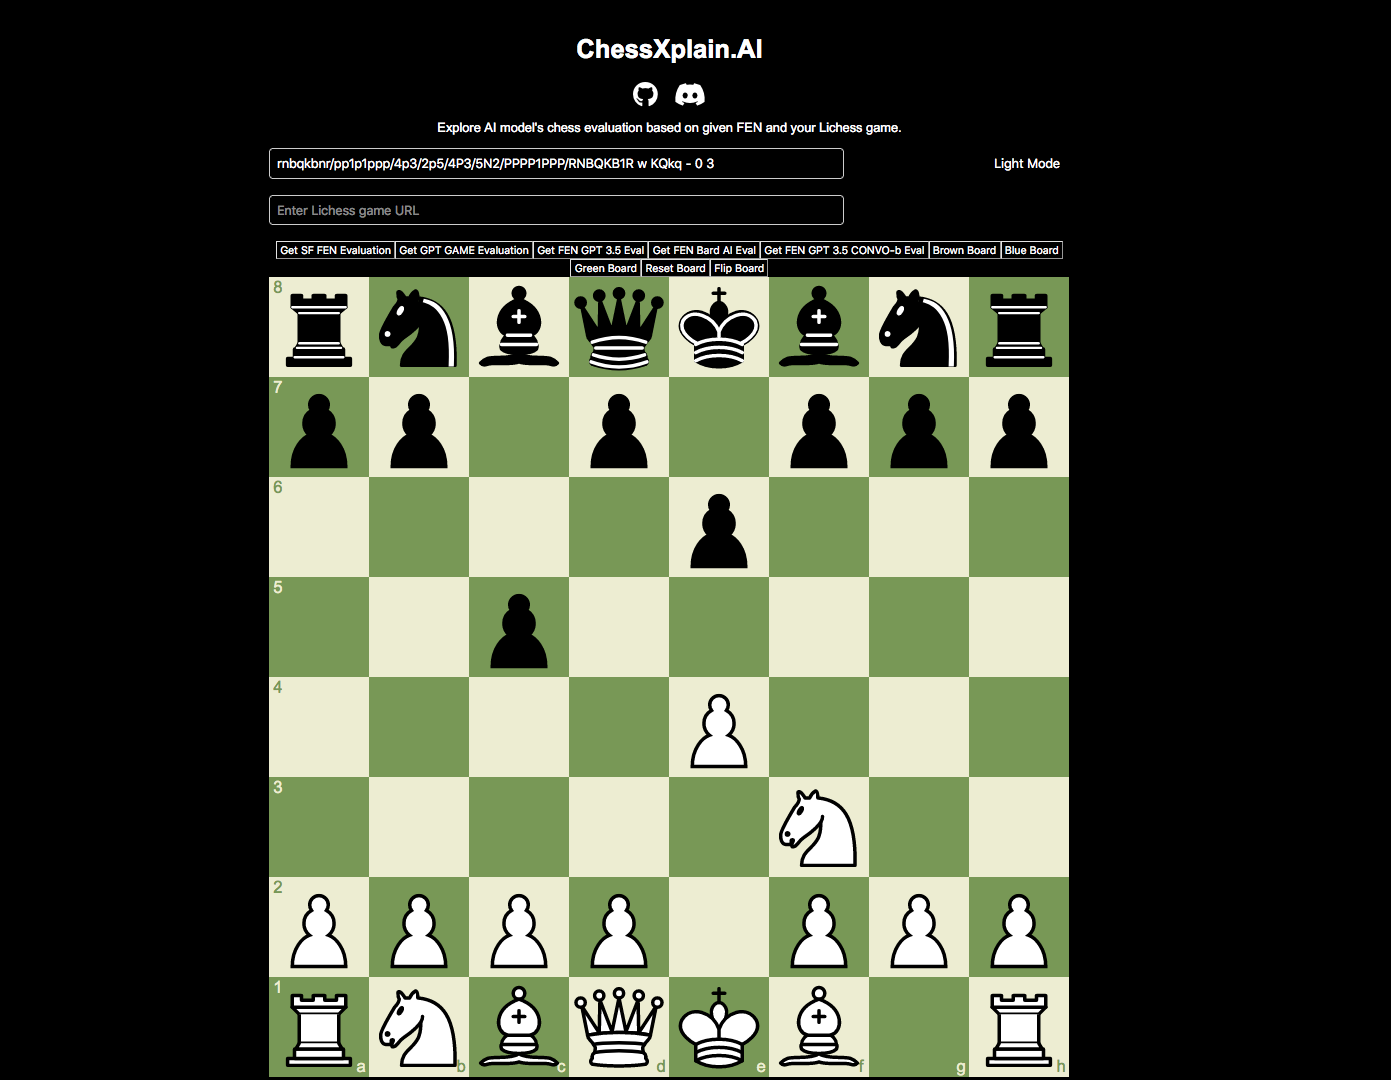
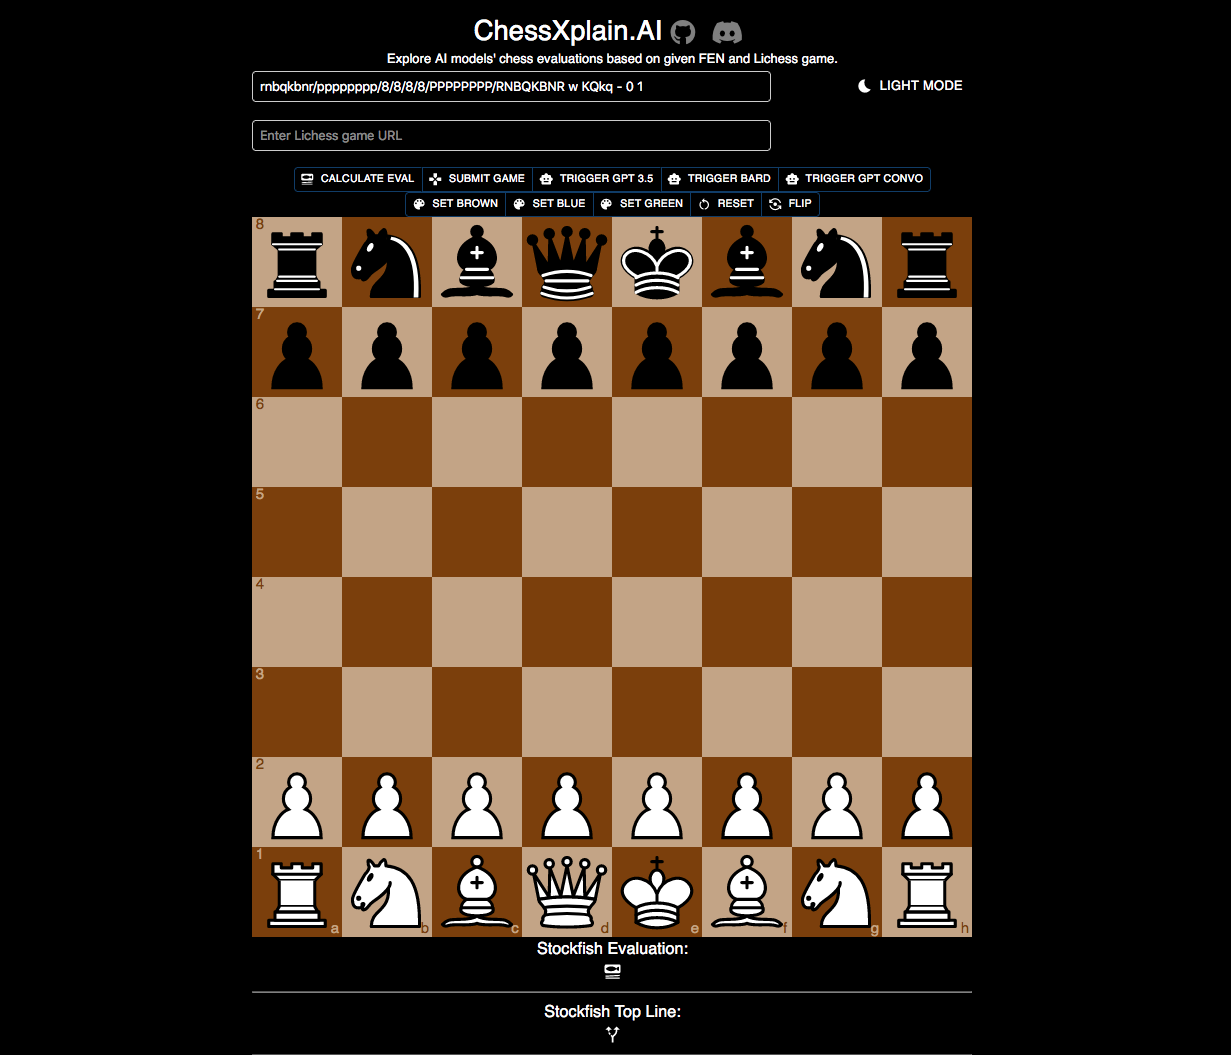
re-design to material UI

diff --git a/chessxplain/src/App.js b/chessxplain/src/App.js
@@ -8,7 +8,6 @@ import handleGPT from './Ai/GPTAi.js';
 import handleGPTGame from './Ai/GPTAiGame.js';
 import Chess from "chess.js";
 import Button from '@mui/material/Button';
-import RotateLeftIcon from '@mui/icons-material/RotateLeft';
 import SetMealIcon from '@mui/icons-material/SetMeal';
 import SmartToyIcon from '@mui/icons-material/SmartToy';
 import GamepadIcon from '@mui/icons-material/Gamepad';
@@ -17,6 +16,11 @@ import ColorLensIcon from '@mui/icons-material/ColorLens';
 import RestartAltIcon from '@mui/icons-material/RestartAlt';
 import FlipCameraAndroidIcon from '@mui/icons-material/FlipCameraAndroid';
 import Typography from '@mui/material/Typography';
+import AltRouteIcon from '@mui/icons-material/AltRoute';
+import { Container } from '@mui/material';
+import BedtimeIcon from '@mui/icons-material/Bedtime';
+
+import StarsIcon from '@mui/icons-material/Stars';
 
 //import CircularProgress from '@mui/material/CircularProgress';
 
@@ -180,16 +184,17 @@ function App() {
     <div className={`App ${darkMode ? 'dark' : ''}`}>
       <div className="container">
       
+      
+        <div className="icon-container">
         <Typography variant="h4" component="h2">
           ChessXplain.AI
         </Typography>
-
-        <p>Authors: @jalpp GPL-3.0 license </p>
-        <div className="icon-container">
           <a href="https://github.com/jalpp/chessxplain" rel="noreferrer"  target="_blank"><i className="fab fa-github fa-2x"></i></a>
           <a href="https://discord.gg/tpvgxn5eZC" rel="noreferrer"  target="_blank"><i className="fab fa-discord fa-2x"></i></a>
         </div>
-        <p> Explore AI model's chess evaluation based on given FEN and your Lichess game. </p>
+       <Typography variant='body1' component='body1'>
+        Explore AI models' chess evaluations based on given FEN and Lichess game.
+       </Typography>
         <div className="controls">
           <div className="search-container">
             <input
@@ -198,7 +203,7 @@ function App() {
               onChange={handleFenChange}
               placeholder="Enter FEN String..."
             /> 
-            <Button variant="outlined" onClick={toggleDarkMode} startIcon={<RotateLeftIcon/>}>{darkMode ? 'Light Mode' : 'Dark Mode'}</Button>
+            <Button variant="outlined" onClick={toggleDarkMode} startIcon={<BedtimeIcon/>}>{darkMode ? 'Light Mode' : 'Dark Mode'}</Button>
           </div>
           <div className="search-container">
           <input
@@ -209,16 +214,16 @@ function App() {
           </div>
           <div className="buttons-container">
             <ButtonGroup variant="outlined" aria-label="Action button group">
-            <Button variant='outlined' size="small" onClick={handleClick} startIcon={<SetMealIcon/>}>Stockfish</Button>
-            <Button variant='outlined' size="small" onClick={() => handleGPTGameClick()} startIcon={<GamepadIcon/>}>Game</Button>
-            <Button variant='outlined' size="small" onClick={() => handleGPTClick()} startIcon={<SmartToyIcon/>}>GPT 3.5 </Button>
-            <Button variant='outlined' size="small" onClick={() => handleLAMAClick()} startIcon={<SmartToyIcon/>}>Bard </Button>
-            <Button variant='outlined' size="small" onClick={() => handleConvoClick()} startIcon={<SmartToyIcon/>}>GPT </Button>
+            <Button variant='outlined' size="small" onClick={handleClick} startIcon={<SetMealIcon/>}>Calculate Eval</Button>
+            <Button variant='outlined' size="small" onClick={() => handleGPTGameClick()} startIcon={<GamepadIcon/>}>Submit Game</Button>
+            <Button variant='outlined' size="small" onClick={() => handleGPTClick()} startIcon={<SmartToyIcon/>}>Trigger GPT 3.5 </Button>
+            <Button variant='outlined' size="small" onClick={() => handleLAMAClick()} startIcon={<SmartToyIcon/>}>Trigger Bard </Button>
+            <Button variant='outlined' size="small" onClick={() => handleConvoClick()} startIcon={<SmartToyIcon/>}>Trigger GPT Convo </Button>
             </ButtonGroup>
            <ButtonGroup variant='outlined' aria-label='Settings button group'>
-             <Button size="small" onClick={() => changeBoardColor('#C4A484', '#7c3f00')} startIcon={<ColorLensIcon/>} >Brown</Button>
-            <Button size="small" onClick={() => changeBoardColor('#ADD8E6', '#0000d9')} startIcon={<ColorLensIcon/>}>Blue </Button>
-            <Button size="small" onClick={() => changeBoardColor('#edeed1', '#779952')} startIcon={<ColorLensIcon/>}>Green</Button>
+             <Button size="small" onClick={() => changeBoardColor('#C4A484', '#7c3f00')} startIcon={<ColorLensIcon/>} >Set Brown</Button>
+            <Button size="small" onClick={() => changeBoardColor('#ADD8E6', '#0000d9')} startIcon={<ColorLensIcon/>}>Set Blue </Button>
+            <Button size="small" onClick={() => changeBoardColor('#edeed1', '#779952')} startIcon={<ColorLensIcon/>}>Set Green</Button>
             <Button size="small" onClick={() => resetBoard()} startIcon={<RestartAltIcon/>}>Reset </Button>
             <Button size="small" onClick={() => changeFlip(flip)} startIcon={<FlipCameraAndroidIcon/>}>Flip </Button> 
            </ButtonGroup>
@@ -240,26 +245,75 @@ function App() {
           />
         </div>
         <div>
-          <p> Stockfish Eval: </p>
-          <p>{evaluation.data}</p>
+        <Container>
+        <Typography variant="h6" component="h6" >
+          Stockfish Evaluation:
+        </Typography>
+        <SetMealIcon/>
+        </Container>
+        <Typography variant='body1' component="body1">
+          {evaluation.data}
+        </Typography>
           <hr></hr>
-          <p> Stockfish Top Line: </p>
-          <p>{topline.data}</p>
+          <Container>
+          <Typography variant='h6' component='h6'>
+           Stockfish Top Line: 
+          </Typography>
+          <AltRouteIcon/>
+          </Container>
+          <Typography variant='body1' component='body1'>
+            {topline.data}
+          </Typography>
           <hr></hr>
-          <p> Stockfish Best Move: </p>
-          <p>{bestmove.data}</p>
+          <Container>
+          <Typography variant='h6' component='h6'>
+           Stockfish Bestmove: 
+          </Typography>
+          <StarsIcon/>
+          </Container>
+          <Typography variant='body1' component='body1'>
+            {bestmove.data}
+          </Typography>
           <hr></hr>
-          <p> GPT 3.5 FEN Eval: </p>
-          <p>{gpteval}</p>
+          <Container>
+          <Typography variant='h6' component='h6'>
+           GPT Game Evaluation:
+          </Typography>
+          <GamepadIcon/>
+          </Container>
+          <Typography variant='body1' component='body1'>
+            {lichessgame}
+          </Typography>
           <hr></hr>
-          <p>GPT 3.5 Game Eval: </p>
-          <p> Game to be analyzed... {lichessgame}</p>
+          <Container>
+          <Typography variant='h6' component='h6'>
+           GPT Evaluation:
+          </Typography>
+          <SmartToyIcon/>
+          </Container>
+          <Typography variant='body1' component='body1'>
+            {gpteval}
+          </Typography>
           <hr></hr>
-          <p> Bard Ai FEN Eval: </p>
-          <p> {getevalama}</p>
+          <Container>
+          <Typography variant='h6' component='h6'>
+           Bard Evaluation:
+          </Typography>
+          <SmartToyIcon/>
+          </Container>
+          <Typography variant='body1' component='body1'>
+            {getevalama}
+          </Typography>
           <hr></hr>
-          <p> GPT 3.5 CONVO-b FEN Eval</p>
-          <p> {getconvo}</p>
+          <Container>
+          <Typography variant='h6' component='h6'>
+           GPT Convo Evaluation:
+          </Typography>
+          <SmartToyIcon/>
+          </Container>
+          <Typography variant='body1' component='body1'>
+            {getconvo}
+          </Typography>
           <hr></hr>
           
         </div>

diff --git a/chessxplain/src/index.css b/chessxplain/src/index.css
@@ -8,7 +8,7 @@ body {
 }
 
 .container {
-  max-width: 1000px;
+  max-width: 900px;
   margin: 0 auto;
   height: 200vh;
   padding: 20px;
@@ -93,7 +93,7 @@ body {
 
 .icon-container a {
   margin: 0 10px; /* Adjust spacing between icons */
-  color: darkblue; /* Adjust icon color */
+  color: grey; /* Adjust icon color */
   text-decoration: none;
   transition: color 0.3s ease; /* Smooth transition for color change */
 }

diff --git a/chessxplain/README.md b/chessxplain/README.md
@@ -18,6 +18,7 @@ Chessxplain is open source platform that allows users to generate AI models like
  - [Lichess Opening Explorer](https://lichess.org/api#tag/Opening-Explorer)
  - [Lichess Games Database](https://lichess.org/api#tag/Games/operation/gamePgn)
  - [Google Prompt Guide](https://cloud.google.com/vertex-ai/docs/generative-ai/text/text-prompts)
+ - [Material-UI](https://mui.com/material-ui/)
 
 
 ## Features
